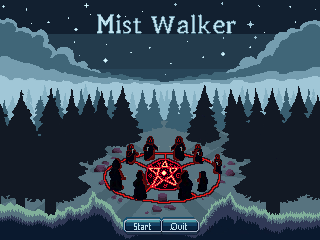
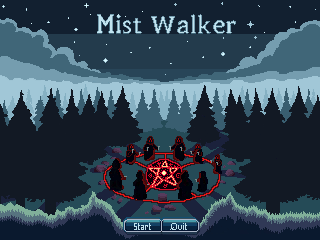
fikset på bilder og la til pause meny

Changed region(s): [[0.0, 0.4958, 0.8438, 0.9333], [0.875, 0.8167, 1.0, 0.9042]]

diff --git a/game.py b/game.py
@@ -50,6 +50,7 @@ class Game:
             "player": load_image("entities/player.png"),
             "background" : load_image("background.png"),
             "main_menu" : load_image("main_menu.png"),
+            "pause_menu" : load_image("pause_menu.png"),
             "clouds" : load_images("clouds"),
             "enemy/idle" : Animation(load_images("entities/enemy/idle"), img_dur=6),
             "enemy/run" : Animation(load_images("entities/enemy/run"), img_dur=12),
@@ -85,6 +86,7 @@ class Game:
         
         self.scaled_background = pygame.transform.scale(self.assets["background"], self.res_half)
         self.scaled_menu = pygame.transform.scale(self.assets["main_menu"], self.res)
+        self.scaled_pause_menu = pygame.transform.scale(self.assets["pause_menu"], self.res)
         
         self.player = Player(self, (50, 50), (22, 37))
         
@@ -389,18 +391,18 @@ class Game:
 
         while self.pause:
             self.pause_tid += 1
-            self.screen.fill((0, 0, 0))  # Fill with black
+            self.display.fill((0, 0, 0))  # Fill with black
 
             mx, my = pygame.mouse.get_pos()
 
-            button_1 = pygame.Rect(50, 100, 200, 50)
-            button_2 = pygame.Rect(50, 200, 200, 50)
+            button_1 = pygame.Rect(self.screen_width * 0.42, self.screen_height * 0.47, 222, 68)
+            button_2 = pygame.Rect(self.screen_width * 0.42, self.screen_height * 0.69, 222, 68)
 
+            self.screen.blit(self.scaled_pause_menu, (0, 0))
+
+            #hitbox for knapper
             pygame.draw.rect(self.screen, (255, 0, 0), button_1)
             pygame.draw.rect(self.screen, (255, 0, 0), button_2)
-
-            self.draw_text("Resume Game", 70, 115)
-            self.draw_text("Main Menu", 110, 215)
 
             if button_1.collidepoint((mx, my)) and click:
                 self.pause_tid = 0
